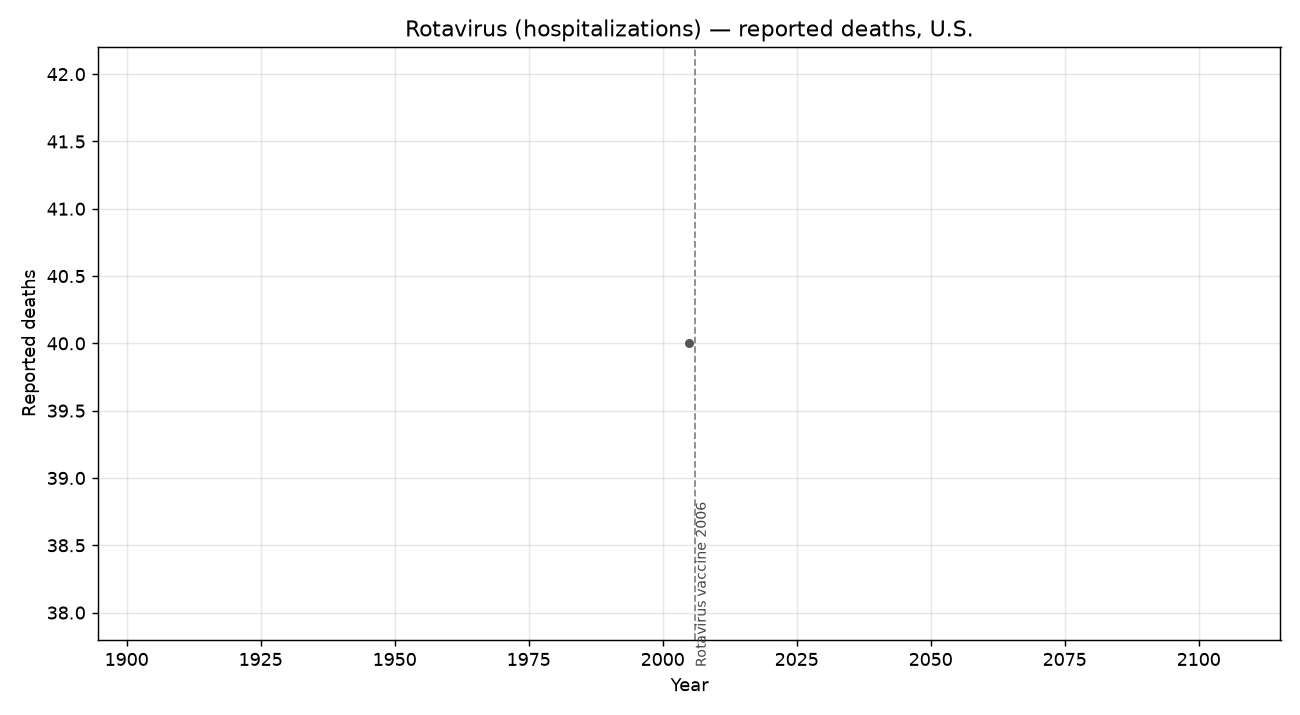
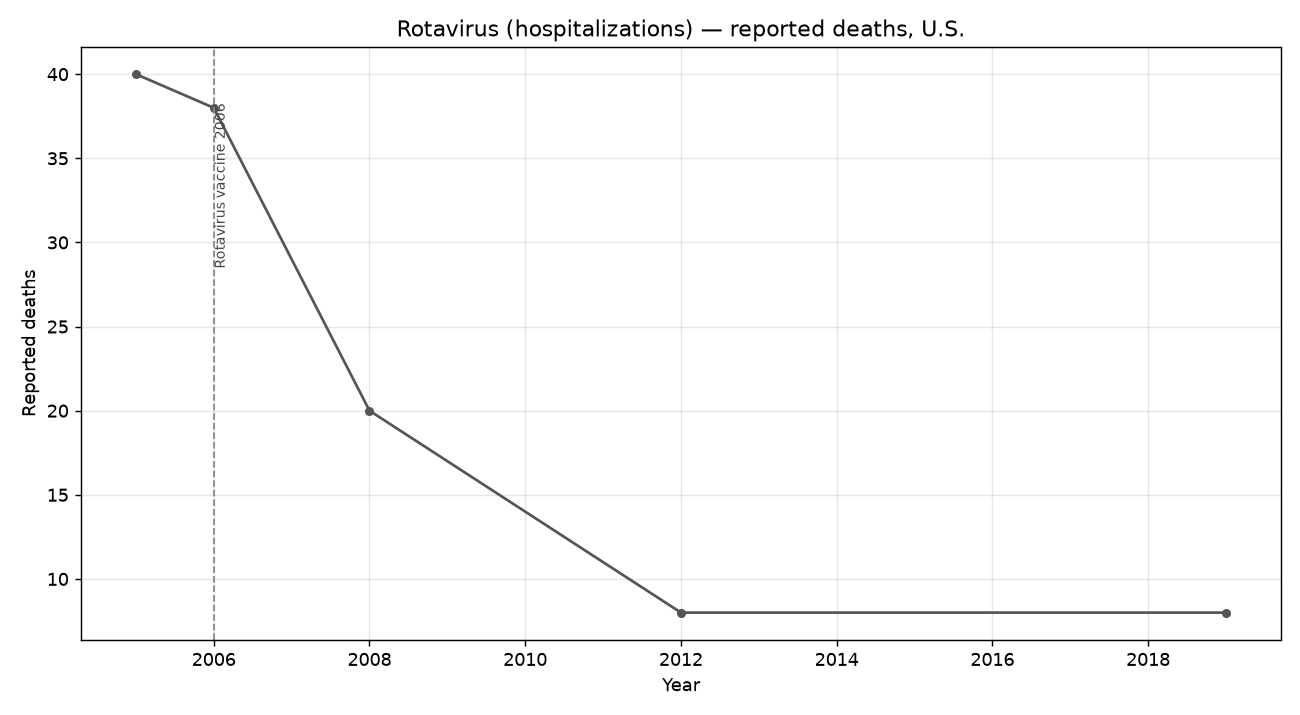
Add death data for Hib, PCV, rotavirus
These were missing deaths (Hib's were dropped during the rate reconciliation;
PCV never had them). Added documented/estimated annual deaths: Hib ~5% CFR
(~380/yr pre-vaccine on the surveillance basis; ~1,000 by the higher burden
estimate), pneumococcal ~1.3% (~200/yr pre-PCV in <5), rotavirus ~40/yr
pre-vaccine. All clearly labeled as estimates; cases and deaths use different
bases for these so CFR is not reliable (noted in facts).

diff --git a/docs/data.js b/docs/data.js
@@ -592,42 +592,42 @@ window.DISEASE_DATA = {
       "incidence": 20.3332,
       "cfr": 0.0667,
       "death_rate": 0.0136,
-      "note": "This series = HOSPITALIZATIONS in children <5 (pre-vaccine ~55-70k/yr; 20-60 deaths)"
+      "note": "Series = HOSPITALIZATIONS in children <5 (pre-vaccine ~55-70k/yr; 20-60 deaths)"
     },
     {
       "year": 2006,
       "cases": 58000,
-      "deaths": null,
+      "deaths": 38,
       "incidence": 19.4751,
-      "cfr": null,
-      "death_rate": null,
+      "cfr": 0.0655,
+      "death_rate": 0.0128,
       "note": "Vaccine introduced mid-2006; little impact yet"
     },
     {
       "year": 2008,
       "cases": 33000,
-      "deaths": null,
+      "deaths": 20,
       "incidence": 10.881,
-      "cfr": null,
-      "death_rate": null,
+      "cfr": 0.0606,
+      "death_rate": 0.0066,
       "note": "Approx; ~45% fewer hospitalizations after the vaccine"
     },
     {
       "year": 2012,
       "cases": 15000,
-      "deaths": null,
+      "deaths": 8,
       "incidence": 4.788,
-      "cfr": null,
-      "death_rate": null,
-      "note": "Approx; sustained ~60-80% reduction (biennial pattern)"
+      "cfr": 0.0533,
+      "death_rate": 0.0026,
+      "note": "Approx; sustained ~60-80% reduction"
     },
     {
       "year": 2019,
       "cases": 15000,
-      "deaths": null,
+      "deaths": 8,
       "incidence": 4.5568,
-      "cfr": null,
-      "death_rate": null,
+      "cfr": 0.0533,
+      "death_rate": 0.0024,
       "note": "Approx"
     }
   ],
@@ -2549,64 +2549,64 @@ window.DISEASE_DATA = {
     {
       "year": 1987,
       "cases": 7600,
-      "deaths": null,
+      "deaths": 380,
       "incidence": 3.1397,
-      "cfr": null,
-      "death_rate": null,
-      "note": "~41 per 100"
+      "cfr": 5.0,
+      "death_rate": 0.157,
+      "note": "~41/100k in children <5 (CDC); deaths approx (~5% fatal)"
     },
     {
       "year": 1989,
       "cases": 6800,
-      "deaths": null,
+      "deaths": 340,
       "incidence": 2.7587,
-      "cfr": null,
-      "death_rate": null,
-      "note": "~37 per 100"
+      "cfr": 5.0,
+      "death_rate": 0.1379,
+      "note": "~37/100k \u2014 still high just before the 1990 infant vaccine"
     },
     {
       "year": 1991,
       "cases": 2040,
-      "deaths": null,
+      "deaths": 100,
       "incidence": 0.8096,
-      "cfr": null,
-      "death_rate": null,
-      "note": "~11 per 100"
+      "cfr": 4.902,
+      "death_rate": 0.0397,
+      "note": "~11/100k \u2014 sharp drop AFTER the 1990 infant conjugate vaccine"
     },
     {
       "year": 1995,
       "cases": 300,
-      "deaths": null,
+      "deaths": 15,
       "incidence": 0.1132,
-      "cfr": null,
-      "death_rate": null,
-      "note": "~1.6 per 100"
+      "cfr": 5.0,
+      "death_rate": 0.0057,
+      "note": "~1.6/100k"
     },
     {
       "year": 1997,
       "cases": 280,
-      "deaths": null,
+      "deaths": 14,
       "incidence": 0.1031,
-      "cfr": null,
-      "death_rate": null,
-      "note": "280 reported cases (~1.5 per 100"
+      "cfr": 5.0,
+      "death_rate": 0.0052,
+      "note": "280 reported cases (~1.5/100k)"
     },
     {
       "year": 2005,
       "cases": 40,
-      "deaths": null,
+      "deaths": 2,
       "incidence": 0.0136,
-      "cfr": null,
-      "death_rate": null,
+      "cfr": 5.0,
+      "death_rate": 0.0007,
       "note": "Approx"
     },
     {
       "year": 2019,
       "cases": 18,
-      "deaths": null,
+      "deaths": 1,
       "incidence": 0.0055,
-      "cfr": null,
-      "death_rate": null,
+      "cfr": 5.5556,
+      "death_rate": 0.0003,
       "note": "18 reported cases in children =<5"
     }
   ],
@@ -2614,37 +2614,37 @@ window.DISEASE_DATA = {
     {
       "year": 1997,
       "cases": 15707,
-      "deaths": null,
+      "deaths": 200,
       "incidence": 5.783,
-      "cfr": null,
-      "death_rate": null,
-      "note": "Invasive pneumococcal disease in children <5 (CDC ABCs)"
+      "cfr": 1.2733,
+      "death_rate": 0.0736,
+      "note": "Invasive pneumococcal disease in children <5 (CDC ABCs); deaths approx (~1.3% fatal)"
     },
     {
       "year": 1999,
       "cases": 16000,
-      "deaths": null,
+      "deaths": 205,
       "incidence": 5.7523,
-      "cfr": null,
-      "death_rate": null,
+      "cfr": 1.2812,
+      "death_rate": 0.0737,
       "note": "Approx; level held before PCV7 (2000)"
     },
     {
       "year": 2007,
       "cases": 4500,
-      "deaths": null,
+      "deaths": 55,
       "incidence": 1.4973,
-      "cfr": null,
-      "death_rate": null,
+      "cfr": 1.2222,
+      "death_rate": 0.0183,
       "note": "Approx; after PCV7 cut <5 invasive disease ~76%"
     },
     {
       "year": 2019,
       "cases": 1382,
-      "deaths": null,
+      "deaths": 18,
       "incidence": 0.4198,
-      "cfr": null,
-      "death_rate": null,
+      "cfr": 1.3025,
+      "death_rate": 0.0055,
       "note": "After PCV13 (2010); -91% vs 1997"
     }
   ],

diff --git a/docs/index.html b/docs/index.html
@@ -211,9 +211,9 @@ const FACTS = {
         "Incidence held steady through 1989, then fell >99% AFTER the 1990 infant conjugate vaccine — not before.",
         "Counts shown are estimated invasive disease in children <5 (CDC surveillance rates); intermediate points approximate."],
   pcv: ["Pneumococcus (Streptococcus pneumoniae) — meningitis, bloodstream infection, pneumonia.",
-        "Invasive disease in children <5 fell ~91%: 15,707 (1997) → 1,382 (2019).",
+        "Invasive disease in children <5 fell ~91%: 15,707 (1997) → 1,382 (2019); ~1–2% fatal (~200 deaths/yr pre-PCV in <5).",
         "PCV7 in 2000; PCV13 in 2010.",
-        "Also a major cause of disease in older adults; this series is children <5 (CDC ABCs)."],
+        "Also a major cause of disease in older adults; this series is children <5 (CDC ABCs). Deaths shown are estimates."],
   diphtheria: ["Toxoid from the 1920s; combined into DTP ~1948.",
                "A top childhood killer once: >100,000 cases/yr in the early 1920s (series here starts 1937).",
                "Now essentially gone — a handful of cases.",